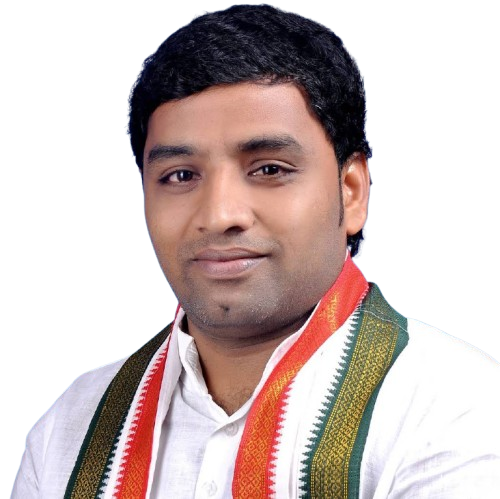
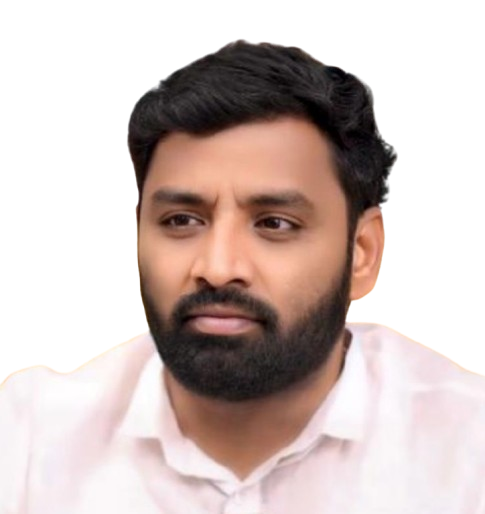
updated

diff --git a/src/main/resources/templates/index.html b/src/main/resources/templates/index.html
@@ -313,7 +313,7 @@
         <div class="gov">GOVERNMENT OF TELANGANA</div>
         <div class="agency">
             Telangana Livestock Development Agency — <strong>TGLDA</strong>
-            <small>Department of Animal Husbandry & Veterinary Services</small>
+            <small>Department of Veterinary & Animal Husbandry</small>
         </div>
     </div>
 
@@ -373,7 +373,7 @@
             Telangana Livestock Development Agency (TGLDA)</h1>
         <p>
             The Telangana Livestock Development Agency (TGLDA) serves as a centralized platform for
-            the Animal Breeding & Veterinary Services Department. Our mission is to promote sustainable
+            the Animal Breeding & Veterinary Department. Our mission is to promote sustainable
             livestock growth and ensure quality breeding services across Telangana.
         </p>
     </section>